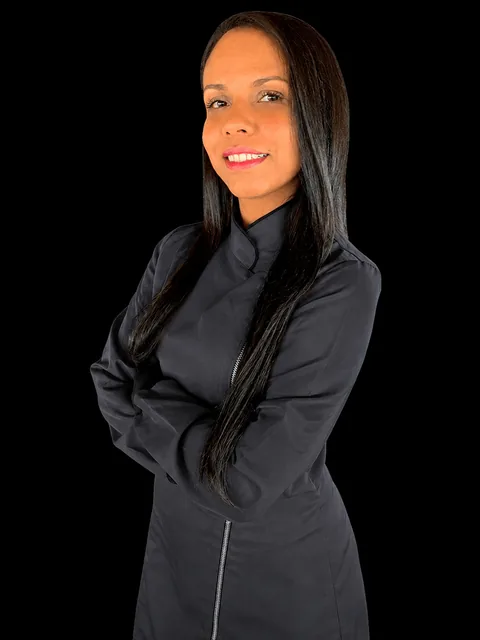
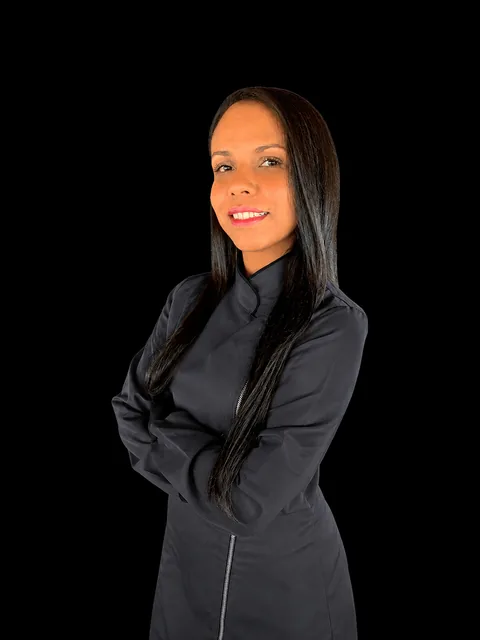
Doctora: formación, RETHUS desde 2011, 15 años, foto centrada; sin enlace RETHUS
Claude-Session: https://claude.ai/code/session_01FRpoHTUYdD5CAcqtkEygdQ

Changed region(s): [[0.1875, 0.0, 0.8125, 1.0]]

diff --git a/index.html b/index.html
@@ -158,7 +158,7 @@ body::before{content:"";position:fixed;inset:0 0 auto;height:env(safe-area-inset
 /* Doctora */
 .doc{display:grid;gap:clamp(28px,5vw,64px);align-items:center}
 @media (min-width:860px){.doc{grid-template-columns:.85fr 1.15fr}}
-.portrait{position:relative;aspect-ratio:3/4;max-width:440px;width:100%;border-radius:0;background:#000;overflow:hidden}
+.portrait{position:relative;aspect-ratio:3/4;max-width:440px;width:100%;margin-inline:auto;justify-self:center;border-radius:0;background:#000;overflow:hidden}
 .portrait::after{content:"";position:absolute;inset:14px;border:1px solid rgba(201,169,110,.45);pointer-events:none}
 .portrait img{display:block;width:100%;height:100%;object-fit:cover;object-position:50% 20%}
 .doc-copy{display:flex;flex-direction:column;gap:18px;min-width:0}
@@ -279,7 +279,7 @@ footer .in{display:flex;flex-direction:column;gap:6px}
 </head>
 <body>
 <div class="announce"><div class="in"><span class="es">Valoración gratis por WhatsApp</span><span class="en">Free assessment on WhatsApp</span><span aria-hidden="true">•</span><span class="es">Precios en dólares</span><span class="en">Prices in US dollars</span></div></div>
-<div class="draft"><div class="in"><b>Borrador.</b> Falta con la doctora: formación y RETHUS, y precio del paquete. Opcional: más casos de antes y después.</div></div>
+<div class="draft"><div class="in"><b>Borrador.</b> Falta con la doctora: precio del paquete. Opcional: más casos de antes y después.</div></div>
 
 <header class="top">
   <div class="in">
@@ -344,7 +344,7 @@ footer .in{display:flex;flex-direction:column;gap:6px}
     <div class="in">
       <div class="item"><strong>5,0 ★</strong><span class="es">23 opiniones en Google</span><span class="en">23 Google reviews</span></div>
       <div class="item"><strong>USD 380</strong><span class="es">por diente en porcelana</span><span class="en">per porcelain tooth</span></div>
-      <div class="item"><strong><span class="es">4 días</span><span class="en">4 days</span></strong><span class="es">en Medellín</span><span class="en">in Medellín</span></div>
+      <div class="item"><strong><span class="es">15 años</span><span class="en">15 years</span></strong><span class="es">de experiencia</span><span class="en">of experience</span></div>
       <div class="item"><strong>−70%</strong><span class="es">frente a EE. UU.</span><span class="en">vs. US prices</span></div>
     </div>
   </div>
@@ -394,14 +394,13 @@ footer .in{display:flex;flex-direction:column;gap:6px}
       <div class="portrait"><img src="img/dra-catalina-480.webp" srcset="img/dra-catalina-480.webp 480w, img/dra-catalina-900.webp 900w" sizes="(min-width:860px) 440px, calc(100vw - 36px)" width="480" height="640" loading="lazy" decoding="async" alt="Dra. Catalina Beltrán, odontóloga estética en Medellín"></div>
       <div class="doc-copy">
         <h2>Dra. Catalina Beltrán</h2>
-        <p class="lead muted"><span class="es">Ella misma hace tu valoración, tu diseño y tu tratamiento. Sin intermediarios: la persona que ves en la videollamada es la que te atiende en Medellín.</span><span class="en">She does your assessment, design and treatment herself. The person you meet on the video call is the one who treats you in Medellín.</span></p>
+        <p class="lead muted"><span class="es">Odontóloga con 15 años de experiencia, registrada en el RETHUS desde 2011. Ella misma hace tu valoración, tu diseño y tu tratamiento. Sin intermediarios: la persona que ves en la videollamada es la que te atiende en Medellín.</span><span class="en">A dentist with 15 years of experience, licensed in Colombia since 2011. She does your assessment, design and treatment herself. The person you meet on the video call is the one who treats you in Medellín.</span></p>
         <ul class="creds">
           <li><span class="es">Especialidad</span><span class="en">Field</span><span class="es">Odontología estética</span><span class="en">Cosmetic dentistry</span></li>
-          <li><span class="es">Formación</span><span class="en">Training</span><span class="pend">(por confirmar)</span></li>
-          <li><span>RETHUS</span><span class="pend">(por confirmar)</span></li>
+          <li><span class="es">Formación</span><span class="en">Training</span><span><span class="es">Odontóloga con énfasis en ciencias quirúrgicas, Colegio Odontológico Colombiano. Especialista en Estética Dental, Federación Odontológica Colombiana. Especialización en Auditoría y Garantía de Calidad en Salud.</span><span class="en">Dentist with an emphasis in surgical sciences, Colegio Odontológico Colombiano. Specialist in Cosmetic Dentistry, Federación Odontológica Colombiana. Postgraduate degree in Healthcare Auditing and Quality Assurance.</span></span></li>
+          <li><span>RETHUS</span><span><span class="es">Odontóloga registrada desde 2011</span><span class="en">Licensed dentist since 2011 (Colombian national registry)</span></span></li>
           <li><span class="es">Consultorio</span><span class="en">Office</span><span>Cra 25 #12 Sur 59, El Poblado</span></li>
         </ul>
-        <a class="textlink" href="https://web.sispro.gov.co/THS/Cliente/ConsultasPublicas/ConsultaPublicaDeTHxIdentificacion.aspx" target="_blank" rel="noopener"><span class="es">Verifica su registro en el Ministerio de Salud de Colombia</span><span class="en">Verify her license with Colombia's Ministry of Health</span></a>
       </div>
     </div>
 
